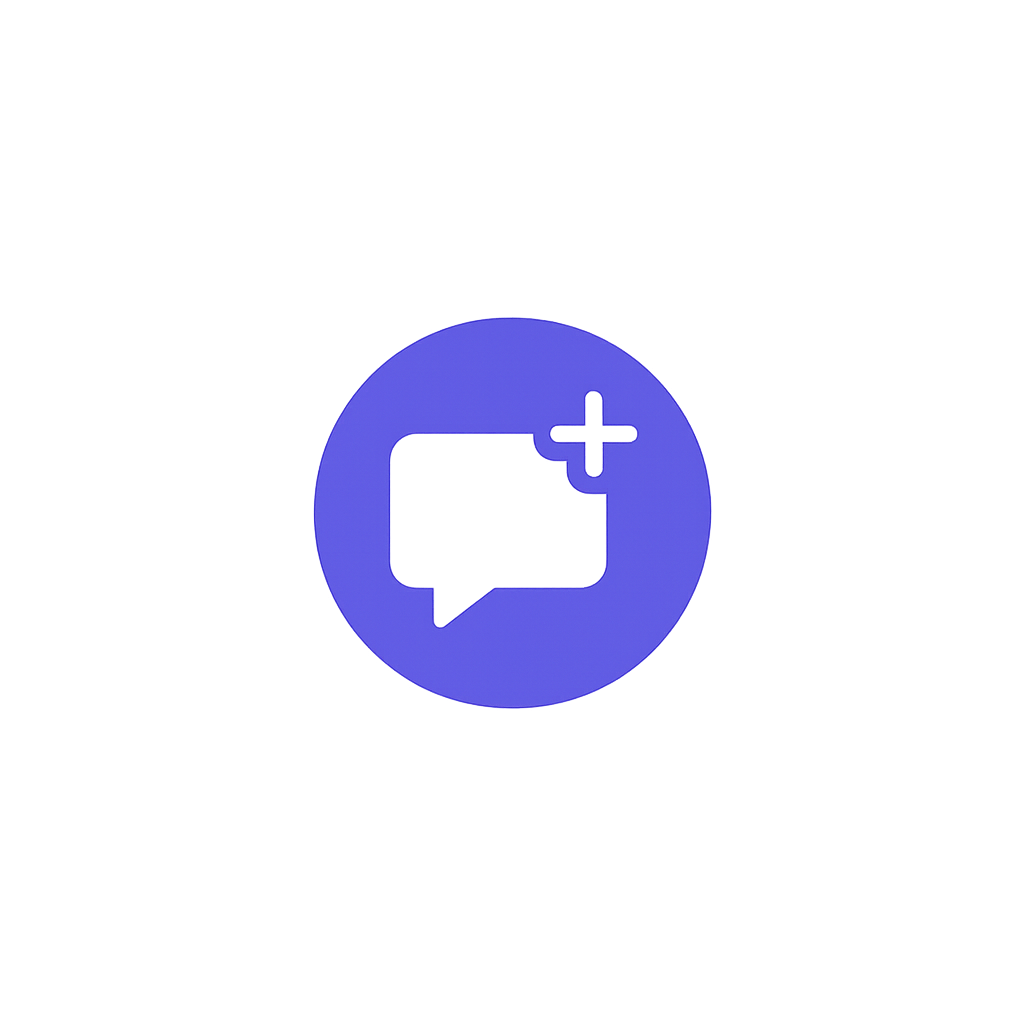
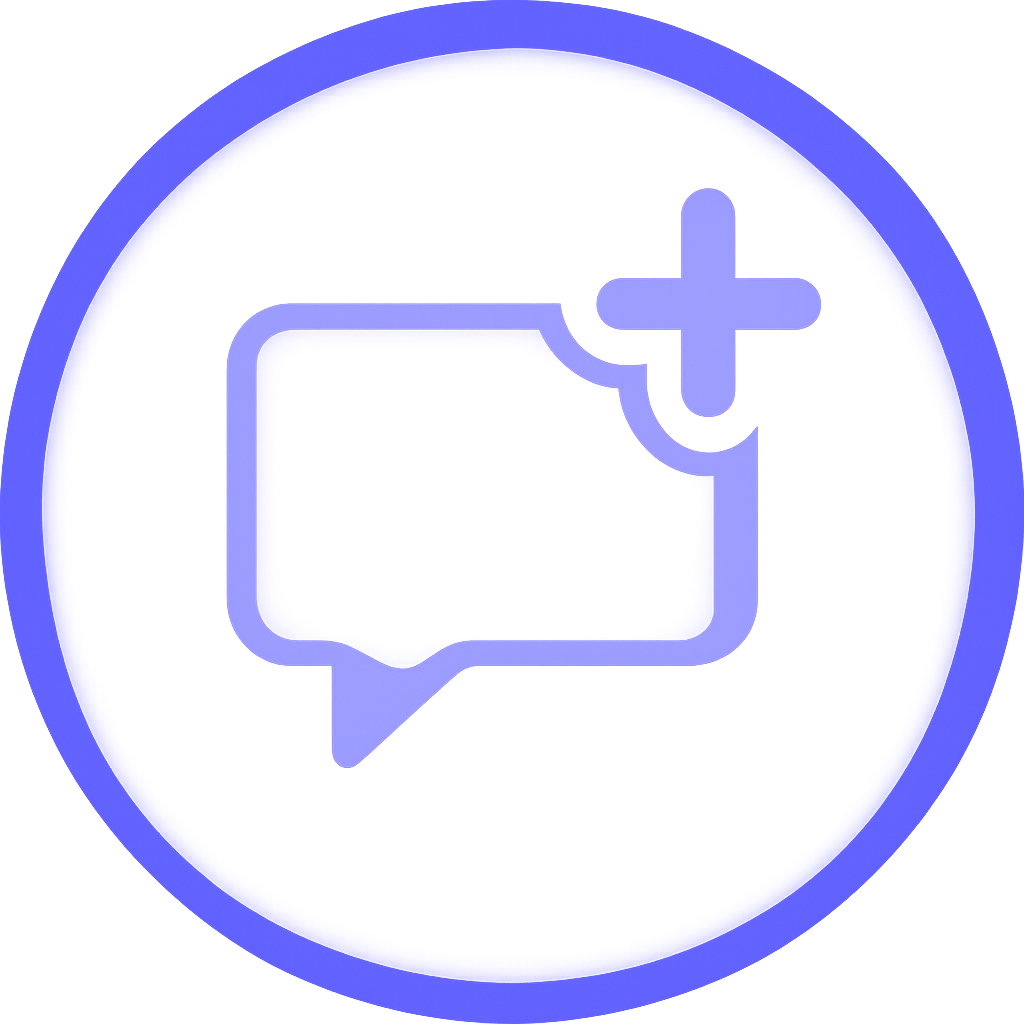
icono minimizado arreglado, tarjeta bloqueada para no seleccionar, botones 'organizar' y 'limpiar' movidos al top, botón de minimizado en burbuja cambiado al angulo vertical del inputbox

Changed region(s): [[0.0, 0.0, 1.0, 1.0], [0.2188, 0.1875, 0.8125, 0.75]]

diff --git a/index.html b/index.html
@@ -93,6 +93,7 @@
       box-shadow: 0 2px 6px rgba(0,0,0,0.1);
       transition: all 0.3s ease;
       flex: 1;
+      user-select: none;
     }
 
     ul {
@@ -111,9 +112,9 @@
       left: 20px;
       background: var(--card-bg);
       border: 1px solid var(--border-color);
-      border-radius: 8px;
-      box-shadow: 0 2px 8px rgba(0,0,0,0.1);
-      padding: 0.5rem;
+      border-radius: 12px;
+      box-shadow: 0 4px 12px rgba(0,0,0,0.15);
+      padding: 0.8rem;
       display: flex;
       flex-direction: column;
       gap: 0.5rem;
@@ -122,9 +123,15 @@
     }
 
     .floating-idea textarea {
-      width: 300px;
-      height: 150px;
+      width: 280px;
+      height: 120px;
       resize: none;
+      border-radius: 8px;
+      border: 1px solid var(--border-color);
+      padding: 0.5rem;
+      font-family: 'Inter', sans-serif;
+      font-size: 0.9rem;
+      box-shadow: inset 0 1px 3px rgba(0,0,0,0.1);
     }
 
     #minimizeBtn {
@@ -138,20 +145,22 @@
 
     .minimized-bubble {
       position: fixed;
-      width: 50px;
-      height: 50px;
+      width: 60px;
+      height: 60px;
       border-radius: 50%;
-      background: var(--primary-color);
+      background: white;
+      border: 2px solid var(--primary-color);
       display: flex;
       align-items: center;
       justify-content: center;
       z-index: 999;
       cursor: grab;
+      box-shadow: 0 4px 10px rgba(0,0,0,0.2);
     }
 
     .minimized-bubble img {
-      width: 30px;
-      height: 30px;
+      width: 40px;
+      height: 40px;
       pointer-events: none;
     }
 
@@ -205,6 +214,7 @@
 
     let inactivityTimeout;
     let drag = false;
+    let selectionTimer;
 
     function resetInactivityTimer() {
       clearTimeout(inactivityTimeout);
@@ -286,6 +296,14 @@
       } else {
         alert('Introduce una API Key válida.');
       }
+    });
+
+    resultDiv.addEventListener('dblclick', () => {
+      resultDiv.style.userSelect = 'text';
+      clearTimeout(selectionTimer);
+      selectionTimer = setTimeout(() => {
+        resultDiv.style.userSelect = 'none';
+      }, 10000);
     });
 
     async function organizeIdea() {
